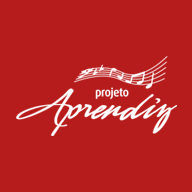
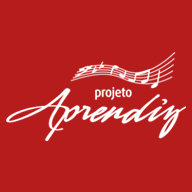
Atualizar identidade visual do PWA

Changed region(s): [[0.0312, 0.2812, 0.9688, 0.75]]

diff --git a/public/sw.js b/public/sw.js
@@ -1,12 +1,12 @@
-const CACHE_NAME = 'projeto-aprendiz-shell-v2';
+const CACHE_NAME = 'projeto-aprendiz-shell-v3';
 const APP_SHELL = [
   '/login',
   '/manifest.webmanifest',
   '/favicon-aprendiz.svg',
   '/projeto-aprendiz-logo.png',
-  '/pwa-icon-192.png',
-  '/pwa-icon-512.png',
-  '/notification-icon.png',
+  '/pwa-icon-192-v3.png',
+  '/pwa-icon-512-v3.png',
+  '/notification-icon-v3.png',
 ];
 
 self.addEventListener('install', event => {
@@ -52,8 +52,8 @@ self.addEventListener('push', event => {
   } catch {}
   event.waitUntil(self.registration.showNotification(title, {
     body,
-    icon: '/pwa-icon-192.png',
-    badge: '/notification-icon.png',
+    icon: '/pwa-icon-192-v3.png',
+    badge: '/notification-icon-v3.png',
     tag: String(payload.tag || '').slice(0, 180) || undefined,
     data: { url: targetUrl },
   }));

diff --git a/index.html b/index.html
@@ -4,7 +4,7 @@
     <meta charset="UTF-8" />
     <link rel="icon" type="image/svg+xml" sizes="any" href="/favicon-aprendiz.svg" />
     <link rel="manifest" href="/manifest.webmanifest" />
-    <link rel="apple-touch-icon" sizes="192x192" href="/pwa-icon-192.png" />
+    <link rel="apple-touch-icon" sizes="192x192" href="/pwa-icon-192-v3.png" />
     <meta name="viewport" content="width=device-width, initial-scale=1.0" />
     <meta name="theme-color" content="#b71c1c" />
     <meta name="mobile-web-app-capable" content="yes" />
